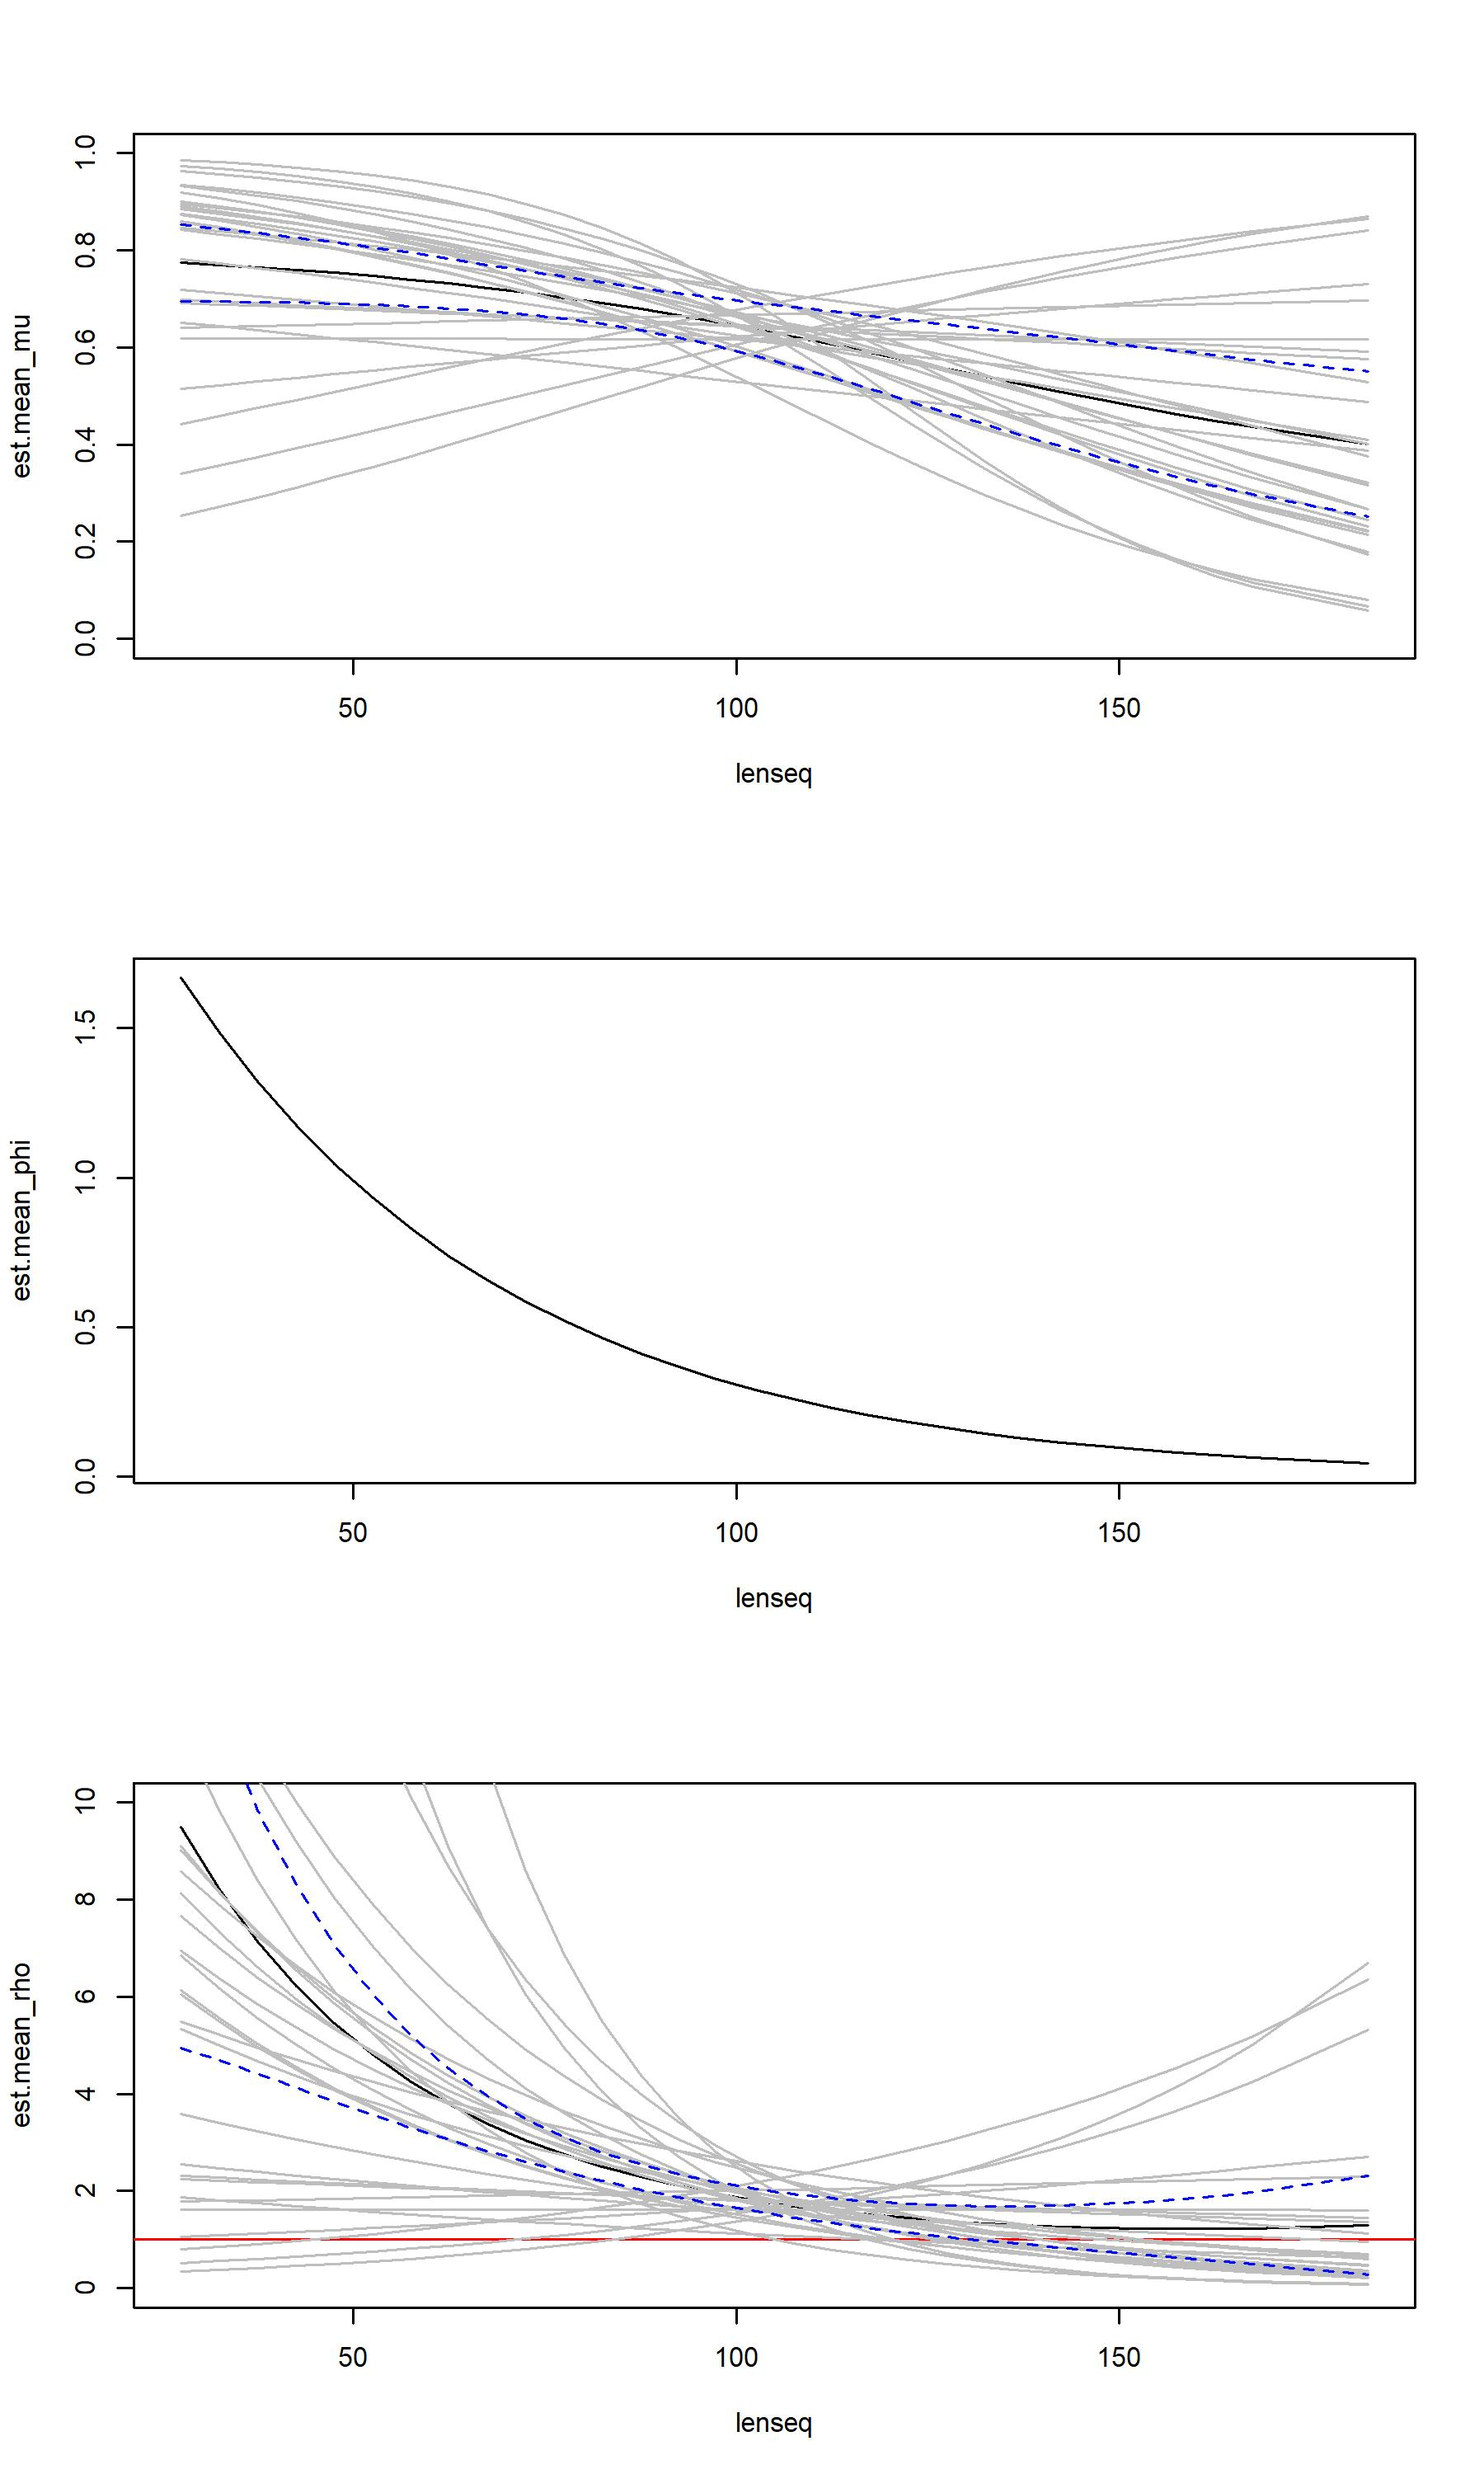
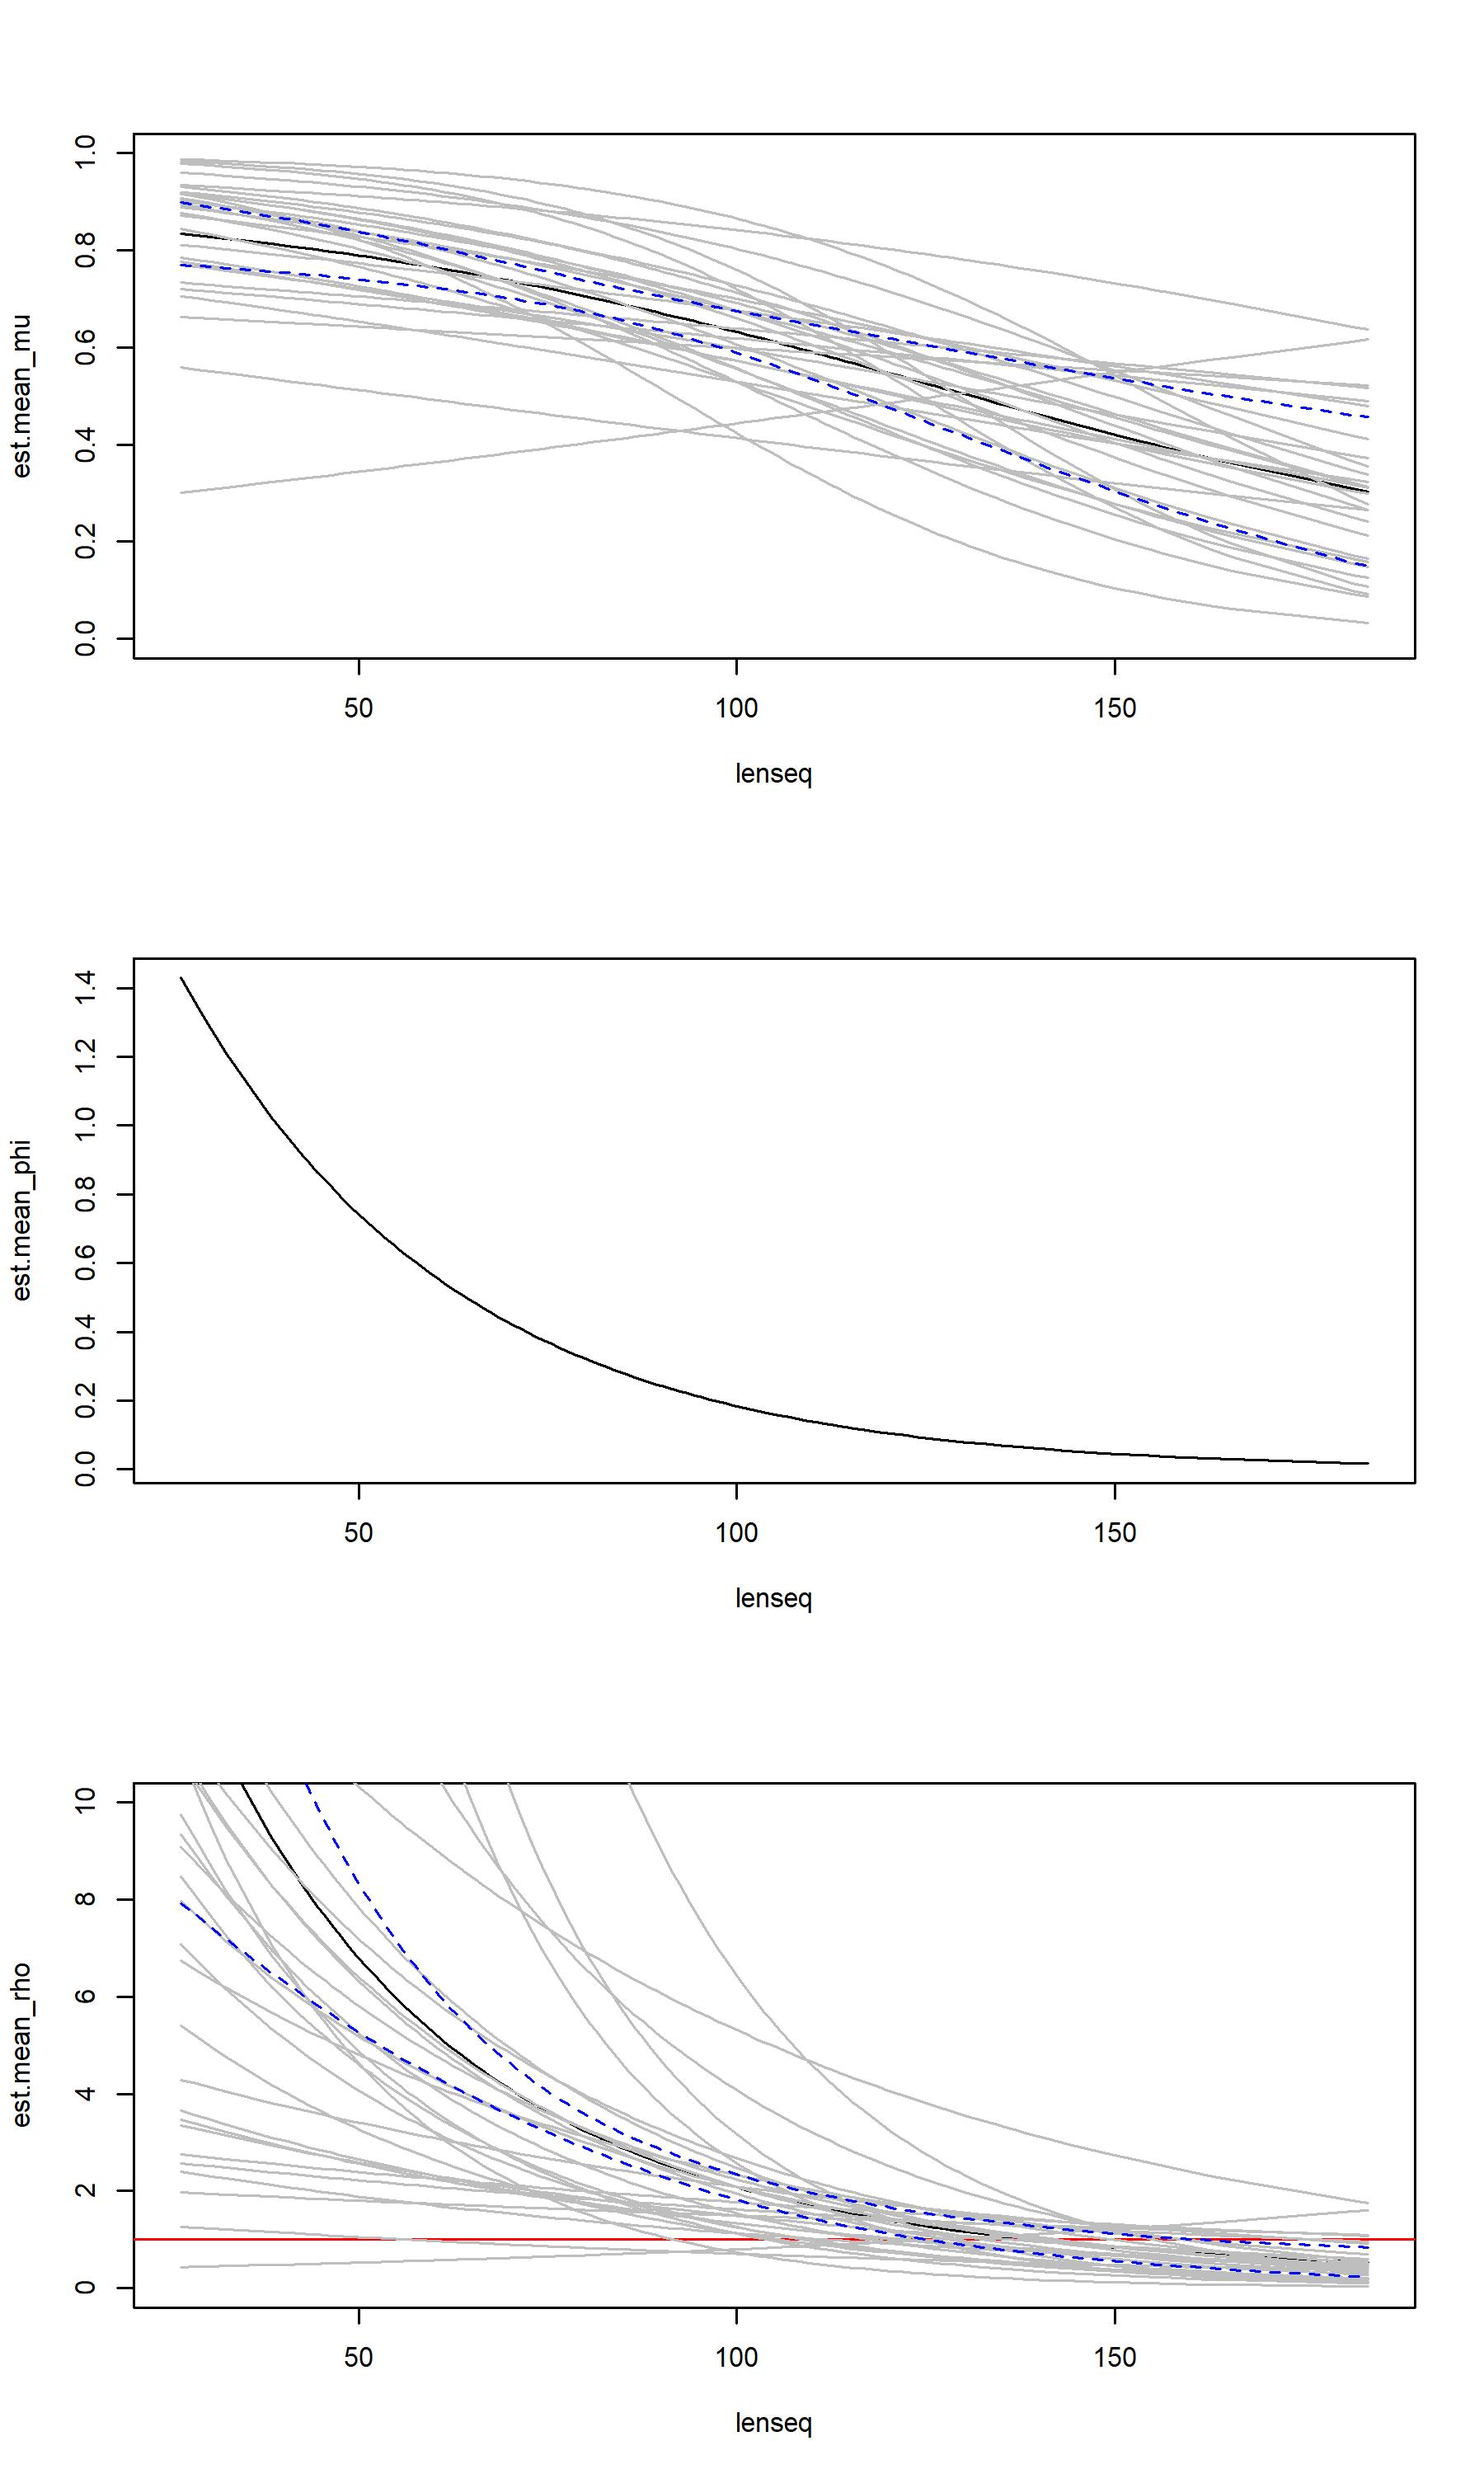
add script and results for validation with Tim's model and redfish data

diff --git a/test_size_gam/test_betabinom_re.cpp b/test_size_gam/test_betabinom_re.cpp
@@ -31,6 +31,7 @@ Type objective_function<Type>::operator() () {
 	// data:
 	DATA_MATRIX(A); // catch number by A, by station by length
 	DATA_MATRIX(B); // catch number by B, by station by length
+	DATA_MATRIX(offset); // offset, validation with Millar's model: offset for zero obs is not zero
 	DATA_MATRIX(Xf); // design matrix for fixed effect
 	DATA_MATRIX(Xr); // design matrix for random effect
 	DATA_VECTOR(d); // positive eigenvalues of penalty matrix S
@@ -107,7 +108,7 @@ Type objective_function<Type>::operator() () {
 				eta_phi += Xr(i_len, i_r) * g(i_r);
 			}
 			// link function
-			mu(i_s, i_len) = invlogit(eta_mu);
+			mu(i_s, i_len) = invlogit(eta_mu + offset(i_s, i_len));
 			phi(i_s, i_len) = exp(eta_phi);
 
 			// conversion rate derived from proportion
@@ -117,6 +118,7 @@ Type objective_function<Type>::operator() () {
 	        Type s1 = mu(i_s, i_len)*phi(i_s, i_len); // s1 = mu(i) * mu(i) / phi(i);
 	        Type s2 = (Type(1)-mu(i_s, i_len))*phi(i_s, i_len); // phi(i) / mu(i);
 
+	        // filter out zeros?
 			nll(4) -= dbetabinom(A(i_s, i_len), s1, s2, N(i_s, i_len), true);
 		}
 	}
@@ -156,7 +158,6 @@ Type objective_function<Type>::operator() () {
 	REPORT(nll);
 	REPORT(jnll);
 
-	// nll(1) = Type(0);
 
 	return jnll;
 }
